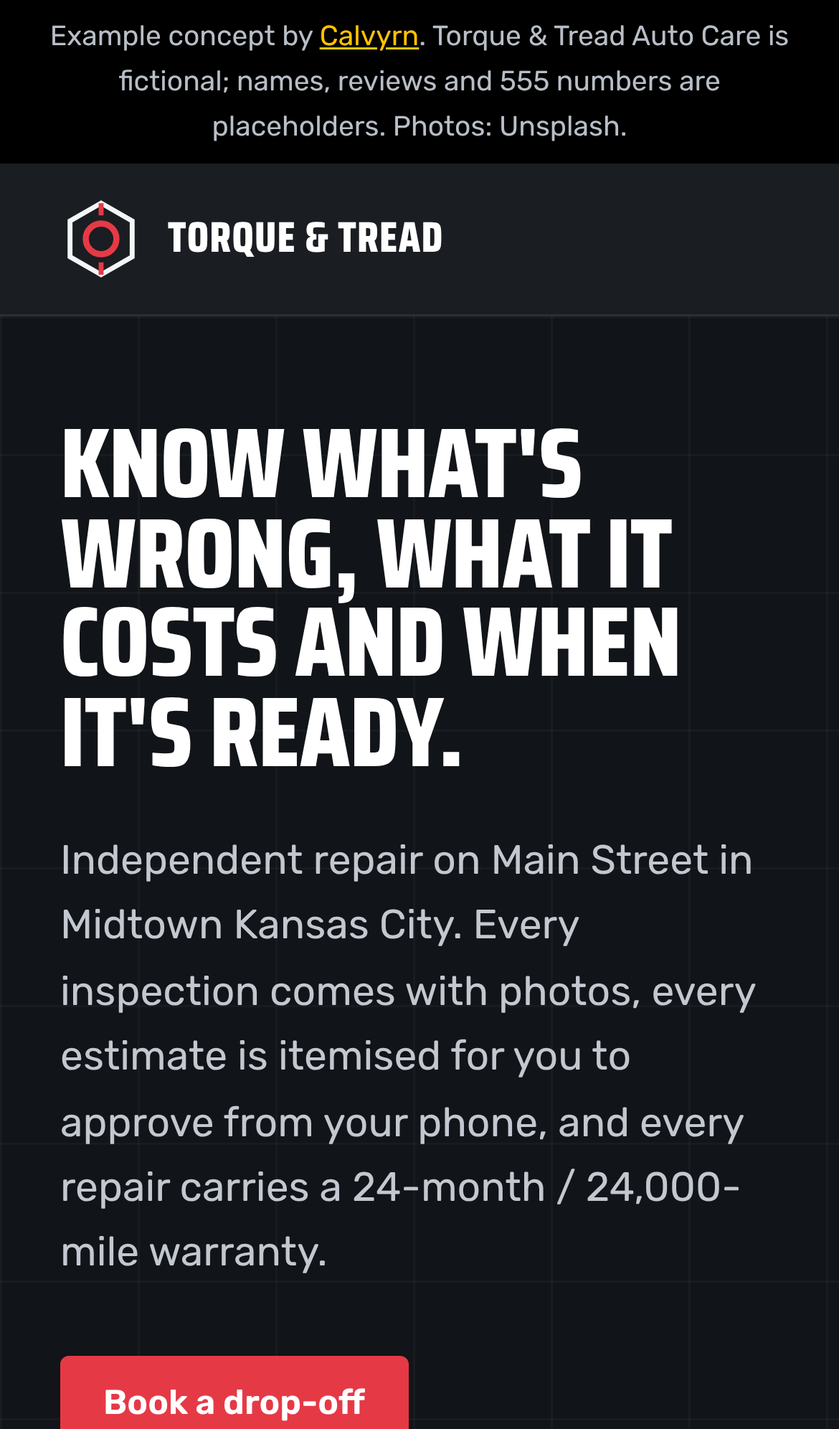
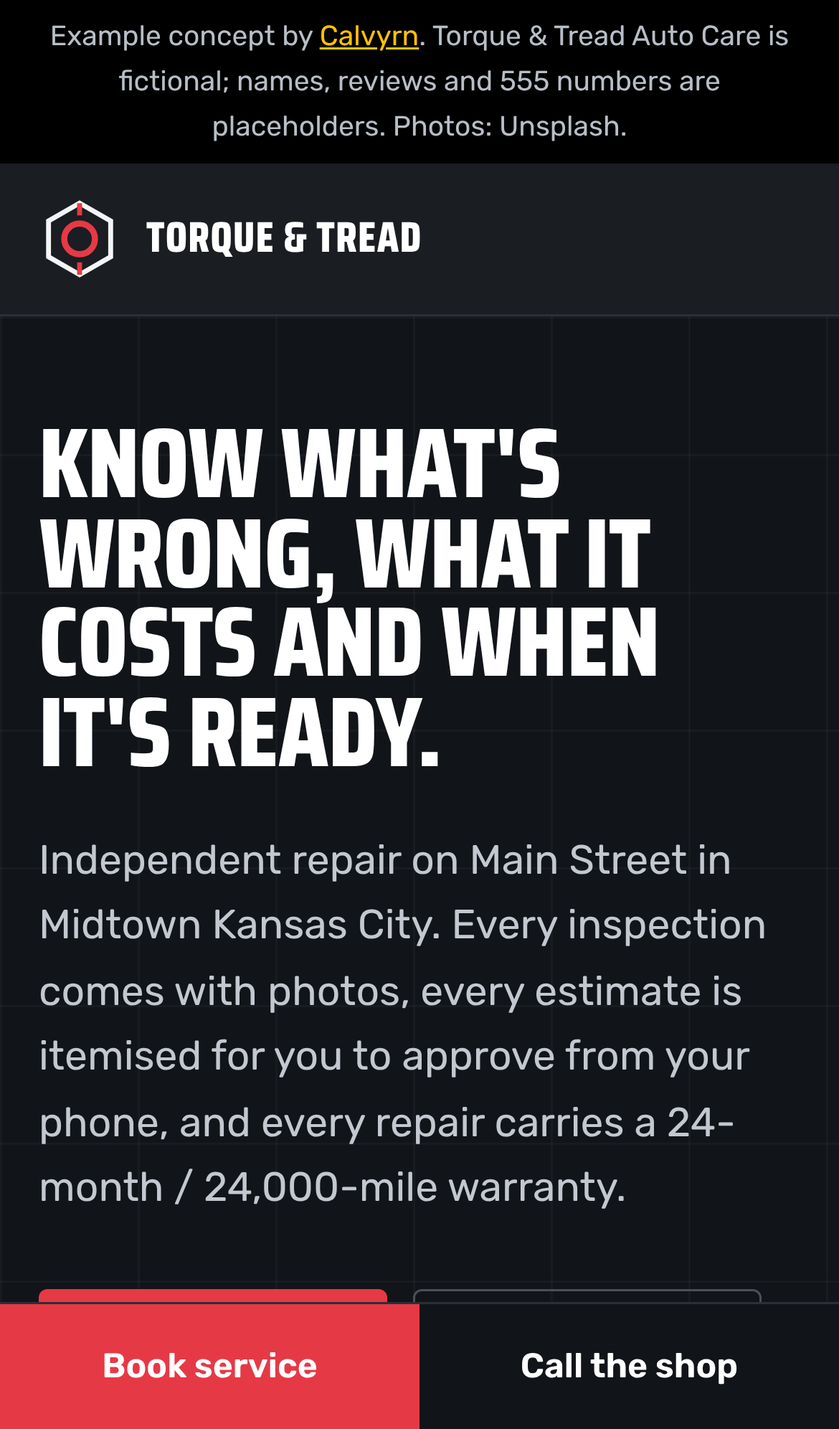
Portfolio: architecture 3D, solar 3D, auto repair, HVAC, plumber

diff --git a/sites/solar-installer-3d/index.html b/sites/solar-installer-3d/index.html
@@ -11,6 +11,7 @@
 <style>
 :root{--night:#0B2545;--sun:#F9C80E;--white:#F7F9FB;--deep:#13315C;--mist:#8DA9C4;--ink:#0B2545;--muted:#4A5F78;--line:#D9E2EC;--hh:70px;--d:"Unbounded",system-ui,sans-serif;--b:"Figtree",system-ui,sans-serif}
 *{box-sizing:border-box}
+[hidden]{display:none!important}
 html,body{margin:0}
 body{background:var(--white);color:var(--ink);font:400 17px/1.6 var(--b);-webkit-font-smoothing:antialiased}
 img{max-width:100%;display:block}
@@ -63,7 +64,8 @@ a{color:inherit}
 .cap{position:absolute;z-index:3;left:max(32px,calc((100vw - 1280px)/2 + 32px));bottom:7vh;max-width:430px;opacity:0}
 .cap small{display:inline-block;font:600 12.5px/1 var(--d);color:var(--night);background:var(--sun);padding:7px 11px;border-radius:999px;margin-bottom:14px}
 .cap h2{font:700 clamp(28px,3vw,44px)/1.05 var(--d);letter-spacing:-.03em;margin:0 0 10px}
-.cap p{margin:0;color:#C9D7E6;font-size:16.5px}
+.cap p{margin:0;color:#C9D7E6;font-size:16.5px;text-shadow:0 1px 14px rgba(11,37,69,.7)}
+.cap h2{text-shadow:0 2px 20px rgba(11,37,69,.5)}
 .fallback{display:none;position:absolute;inset:0;z-index:1;background:linear-gradient(rgba(11,37,69,.55),rgba(11,37,69,.85)),url(img/panels-golden.jpg) center/cover}
 .no-gl .fallback{display:block}.no-gl .cap,.no-gl .hint{display:none}
 .static .cap,.static .hint{display:none}
@@ -112,7 +114,7 @@ fieldset{border:0;margin:0;padding:0}
 .num b{display:block;font:700 clamp(40px,4.6vw,68px)/.95 var(--d);letter-spacing:-.045em;font-variant-numeric:tabular-nums}
 .num b sup{font-size:.4em;vertical-align:top;margin-left:4px;letter-spacing:0;position:relative;top:.2em}
 .num.wide{grid-column:1/-1}
-.num.wide b{color:var(--sun);font-size:clamp(40px,5.4vw,80px)}
+.num.wide b{color:var(--sun);font-size:clamp(32px,4.1vw,60px)}
 .num span{display:block;font-size:14px;color:#C9D7E6;margin-top:8px}
 .warn{margin:20px 0 0;background:rgba(249,200,14,.12);border:1px solid rgba(249,200,14,.4);color:#FBE7A0;border-radius:12px;padding:10px 14px;font-size:14px;position:relative}
 .fine{font-size:12.5px;line-height:1.55;color:#8DA9C4;margin:28px 0 0;border-top:1px solid rgba(141,169,196,.25);padding-top:18px;position:relative}
@@ -336,8 +338,8 @@ footer a{color:#D5E0EC;text-decoration:none}footer a:hover{color:var(--sun)}
     <p class="intro">Three ways to go solar. Prices are typical ranges for Valley homes before any incentives; your written quote is itemized line by line.</p>
     <div class="opts-grid">
       <article class="card dark"><img src="img/panels-close.jpg" alt="Close-up of black solar panels against a blue sky" loading="lazy"><div class="in"><h3>Solar panels</h3><p>The quickest payback. Your panels cover daytime use, and the surplus goes to the grid for bill credits.</p><ul><li>All-black 410 W panels</li><li>Panel-level monitoring on your phone</li><li>25-year workmanship warranty</li></ul><p class="price">$19,000–$25,000<small>typical 7–9 kW system, installed</small></p></div></article>
-      <article class="card"><img src="img/house-battery.jpg" alt="House with a row of solar panels on its tiled roof" loading="lazy"><div class="in"><h3>Panels + home battery</h3><p>Store the afternoon sun for the expensive evening hours and keep the fridge and Wi-Fi on in an outage.</p><p class="price">$31,000–$40,000<small>panels plus a 13–15 kWh battery</small></p></div></article>
-      <article class="card"><img src="img/cottages.jpg" alt="Two houses with dark solar panels covering their roofs" loading="lazy"><div class="in"><h3>Battery for existing solar</h3><p>Already have panels? We add a battery to most systems, including ones another company installed.</p><p class="price">$11,000–$16,000<small>battery, installed and connected</small></p></div></article>
+      <article class="card"><img src="img/house-battery.jpg" alt="House with a row of solar panels on its tiled roof" loading="lazy"><div class="in"><h3>Panels + home battery</h3><p>Store the afternoon sun for the expensive evening hours and keep the fridge and Wi-Fi on in an outage.</p><ul><li>Backup for chosen circuits</li><li>Charges from your panels first</li></ul><p class="price">$31,000–$40,000<small>panels plus a 13–15 kWh battery</small></p></div></article>
+      <article class="card"><img src="img/cottages.jpg" alt="Two houses with dark solar panels covering their roofs" loading="lazy"><div class="in"><h3>Battery for existing solar</h3><p>Already have panels? We add a battery to most systems, including ones another company installed.</p><ul><li>Compatibility check first</li><li>Usually installed in one day</li></ul><p class="price">$11,000–$16,000<small>battery, installed and connected</small></p></div></article>
     </div>
   </div>
 </section>
@@ -422,10 +424,10 @@ footer a{color:#D5E0EC;text-decoration:none}footer a:hover{color:var(--sun)}
     $('billOut').textContent='$'+b;
     const use=b/RATE*12, perKw=PER_KW*dir*sh;
     let kw=Math.min(16,Math.max(2.5,use*OFFSET/perKw));
-    const panels=Math.ceil(kw/PANEL); kw=panels*PANEL;
+    const panels=Math.min(39,Math.ceil(kw/PANEL)); kw=panels*PANEL;
     const prod=kw*perKw, off=Math.min(100,Math.round(prod/use*100));
     const lo=prod*RATE*.62, hi=Math.min(prod*RATE*.95,b*12*.97);
-    $('rKw').innerHTML=kw.toFixed(1)+'<sup>kW</sup>'; $('rPanels').textContent=panels+' panels, about '+Math.round(prod).toLocaleString('en-US')+' kWh a year';
+    $('rKw').innerHTML=kw.toFixed(1)+'<sup>kW</sup>'; $('rPanels').textContent=panels+' panels, about '+(Math.round(prod/50)*50).toLocaleString('en-US')+' kWh a year';
     $('rOff').innerHTML=off+'<sup>%</sup>';
     $('rSave').textContent=money(lo)+'–'+money(hi);
     $('rLife').textContent='Roughly '+money(Math.round(lo*25/1000)*1000)+' to '+money(Math.round(hi*25/1000)*1000)+' over 25 years at today\'s rates';
@@ -456,7 +458,7 @@ import { RoomEnvironment } from 'three/addons/environments/RoomEnvironment.js';
 
 const reduce = matchMedia('(prefers-reduced-motion: reduce)').matches;
 const story = document.getElementById('story'), stage = document.getElementById('stage'), holder = document.getElementById('gl');
-const heroCopy = document.getElementById('heroCopy'), caps = [document.getElementById('cap0'), document.getElementById('cap1')];
+const hud = document.getElementById('hud'), heroCopy = document.getElementById('heroCopy'), caps = [document.getElementById('cap0'), document.getElementById('cap1')];
 const elClock = document.getElementById('clock'), elKwh = document.getElementById('kwh'), elPc = document.getElementById('pc'), elBar = document.getElementById('pbar');
 const animated = !reduce && !!(window.gsap && window.ScrollTrigger);
 
@@ -603,6 +605,7 @@ function build() {
       m.position.set(u.t.x + u.o.x * k, u.t.y + u.o.y * k, u.t.z + u.o.z * k);
       m.rotation.set(u.rot[0] * k, u.rot[1] * k, u.rot[2] * k);
       const since = p - (u.s + .11); m.material.emissiveIntensity = since > 0 ? Math.max(0, .9 - since * 22) : 0;
+      m.visible = p > u.s - .03;
       if (e > .985) placed++;
     });
     const frac = placed / panels.length;
@@ -623,7 +626,7 @@ function build() {
     const c = camAt(p), fit = wide ? 1 : cl(.9 / cam.aspect, 1, 1.75);
     cam.position.set(Math.sin(c.th) * c.r * fit, c.h * (wide ? 1 : 1 + (fit - 1) * .35), Math.cos(c.th) * c.r * fit);
     cam.lookAt(0, c.ty, 0);
-    if (wide) cam.setViewOffset(W, H, -W * .19, H * .03, W, H); else cam.setViewOffset(W, H, 0, H * lerp(animated ? -.2 : -.12, -.02, sm(0, .07, p)), W, H);
+    if (wide) cam.setViewOffset(W, H, -W * .19, H * .03, W, H); else cam.setViewOffset(W, H, 0, H * lerp(animated ? -.3 : -.12, -.02, sm(0, .07, p)), W, H);
     // HUD
     const hour = 6 + 13.5 * a / Math.PI;
     elClock.textContent = fmtTime(hour);
@@ -631,12 +634,13 @@ function build() {
     elKwh.textContent = kwh.toFixed(1); elPc.textContent = `${placed} / ${panels.length}`; elBar.style.width = (frac * 100) + '%';
     if (animated) {
       const hc = sm(0, .05, p); heroCopy.style.opacity = 1 - hc; heroCopy.style.transform = `translateY(${-hc * 30}px)`; heroCopy.style.visibility = p > .06 ? 'hidden' : 'visible';
+      hud.style.opacity = wide ? 1 : sm(.03, .07, p);
       [[.07, .47], [.53, 1.2]].forEach(([s, e], i) => { const o = sm(s, s + .04, p) * (1 - sm(e - .04, e, p)); caps[i].style.opacity = o; caps[i].style.transform = `translateY(${(1 - o) * 18}px)`; });
     }
   }
   function draw(p, t) { apply(p, t); renderer.render(scene, cam); }
 
-  let cur = animated ? 0 : .55, target = cur;
+  let cur = animated ? 0 : .6, target = cur;
   new ResizeObserver(size).observe(stage);
   if (animated) {
     gsap.registerPlugin(ScrollTrigger);

diff --git a/index.html b/index.html
@@ -35,15 +35,29 @@ footer{padding:26px 0;font-size:14px;color:var(--muted)}
 <div class="wrap">
 <header><a class="brand" href="https://calvyrn.com">Calvyrn</a><a class="cta" href="https://calvyrn.com/contact.html">Get a free concept</a></header>
 <section class="intro"><h1>Websites and web apps that do a job for the business.</h1>
-<p>17 working concepts by industry: booking, ordering, client portals, quote calculators and interactive 3D. Open any of them on your phone and try it.</p></section>
+<p>22 working concepts by industry: booking, ordering, client portals, quote calculators and interactive 3D. Open any of them on your phone and try it.</p></section>
 <div class="filters" role="group" aria-label="Filter by tier"><button aria-pressed="true" data-f="all">All</button><button aria-pressed="false" data-f="High-end 3D">High-end 3D</button><button aria-pressed="false" data-f="Medium">Medium</button><button aria-pressed="false" data-f="Simple">Simple</button></div>
 <div class="grid" id="grid">
+<article class="card" data-tier="High-end 3D">
+  <a class="shot" href="sites/architecture-studio-3d/"><img src="sites/architecture-studio-3d/screenshots/desktop.png" alt="Architecture studio with a scroll-built 3D house: desktop screenshot" loading="lazy" width="1366" height="860"></a>
+  <div class="meta"><span class="ind">Architecture</span><span class="tier">High-end 3D</span></div>
+  <h2><a href="sites/architecture-studio-3d/">Architecture studio with a scroll-built 3D house</a></h2>
+  <p>A concrete-and-glass house assembles floor by floor, orbits and slides into golden-hour light as you scroll.</p>
+  <a class="code" href="https://github.com/calvyrn/portfolio/tree/main/sites/architecture-studio-3d">View the code</a>
+</article>
 <article class="card" data-tier="High-end 3D">
   <a class="shot" href="sites/roofing-3d/"><img src="sites/roofing-3d/screenshots/desktop.png" alt="Roofing company with a live 3D roof preview: desktop screenshot" loading="lazy" width="1366" height="860"></a>
   <div class="meta"><span class="ind">Home services</span><span class="tier">High-end 3D</span></div>
   <h2><a href="sites/roofing-3d/">Roofing company with a live 3D roof preview</a></h2>
   <p>Three.js scene with soft shadows, orbit controls, procedural textures for shingle, metal and tile, color swatches and a quote form. Auto-rotate is off for reduced motion.</p>
   <a class="code" href="https://github.com/calvyrn/portfolio/tree/main/sites/roofing-3d">View the code</a>
+</article>
+<article class="card" data-tier="High-end 3D">
+  <a class="shot" href="sites/solar-installer-3d/"><img src="sites/solar-installer-3d/screenshots/desktop.png" alt="Solar installer with 3D panels and savings estimator: desktop screenshot" loading="lazy" width="1366" height="860"></a>
+  <div class="meta"><span class="ind">Solar</span><span class="tier">High-end 3D</span></div>
+  <h2><a href="sites/solar-installer-3d/">Solar installer with 3D panels and savings estimator</a></h2>
+  <p>Panels fly onto a 3D house as the sun crosses the sky, plus a savings estimator that shows its assumptions.</p>
+  <a class="code" href="https://github.com/calvyrn/portfolio/tree/main/sites/solar-installer-3d">View the code</a>
 </article>
 <article class="card" data-tier="High-end 3D">
   <a class="shot" href="sites/travel-agency-3d/"><img src="sites/travel-agency-3d/screenshots/desktop.png" alt="Travel agency with a 3D flight globe: desktop screenshot" loading="lazy" width="1366" height="860"></a>
@@ -60,6 +74,13 @@ footer{padding:26px 0;font-size:14px;color:var(--muted)}
   <a class="code" href="https://github.com/calvyrn/portfolio/tree/main/sites/accounting-portal">View the code</a>
 </article>
 <article class="card" data-tier="Medium">
+  <a class="shot" href="sites/auto-repair/"><img src="sites/auto-repair/screenshots/desktop.png" alt="Auto shop with repair tracking: desktop screenshot" loading="lazy" width="1366" height="860"></a>
+  <div class="meta"><span class="ind">Auto repair</span><span class="tier">Medium</span></div>
+  <h2><a href="sites/auto-repair/">Auto shop with repair tracking</a></h2>
+  <p>Book a drop-off, then track the car by RO number and approve or decline each estimate line from your phone.</p>
+  <a class="code" href="https://github.com/calvyrn/portfolio/tree/main/sites/auto-repair">View the code</a>
+</article>
+<article class="card" data-tier="Medium">
   <a class="shot" href="sites/dental-booking/"><img src="sites/dental-booking/screenshots/desktop.png" alt="Dental practice with online booking: desktop screenshot" loading="lazy" width="1366" height="860"></a>
   <div class="meta"><span class="ind">Dental</span><span class="tier">Medium</span></div>
   <h2><a href="sites/dental-booking/">Dental practice with online booking</a></h2>
@@ -72,6 +93,13 @@ footer{padding:26px 0;font-size:14px;color:var(--muted)}
   <h2><a href="sites/gym-studio/">Strength gym with class booking</a></h2>
   <p>Filterable weekly schedule where reserving lowers spots left, full classes take a waitlist and bookings show in an app mockup.</p>
   <a class="code" href="https://github.com/calvyrn/portfolio/tree/main/sites/gym-studio">View the code</a>
+</article>
+<article class="card" data-tier="Medium">
+  <a class="shot" href="sites/hvac-emergency/"><img src="sites/hvac-emergency/screenshots/desktop.png" alt="24/7 HVAC with a troubleshooter: desktop screenshot" loading="lazy" width="1366" height="860"></a>
+  <div class="meta"><span class="ind">HVAC</span><span class="tier">Medium</span></div>
+  <h2><a href="sites/hvac-emergency/">24/7 HVAC with a troubleshooter</a></h2>
+  <p>Giant tap-to-call number and a What is wrong troubleshooter that walks through safe checks before booking an arrival window.</p>
+  <a class="code" href="https://github.com/calvyrn/portfolio/tree/main/sites/hvac-emergency">View the code</a>
 </article>
 <article class="card" data-tier="Medium">
   <a class="shot" href="sites/cleaning-quote/"><img src="sites/cleaning-quote/screenshots/desktop.png" alt="Home cleaning with instant price calculator: desktop screenshot" loading="lazy" width="1366" height="860"></a>
@@ -156,6 +184,13 @@ footer{padding:26px 0;font-size:14px;color:var(--muted)}
   <h2><a href="sites/wedding-photographer/">Wedding photography studio</a></h2>
   <p>Editorial wedding studio site with a full-screen hero, masonry gallery with keyboard lightbox, three collections and an inquiry form.</p>
   <a class="code" href="https://github.com/calvyrn/portfolio/tree/main/sites/wedding-photographer">View the code</a>
+</article>
+<article class="card" data-tier="Simple">
+  <a class="shot" href="sites/plumbing-simple/"><img src="sites/plumbing-simple/screenshots/desktop.png" alt="Family plumber, one fast page: desktop screenshot" loading="lazy" width="1366" height="860"></a>
+  <div class="meta"><span class="ind">Plumbing</span><span class="tier">Simple</span></div>
+  <h2><a href="sites/plumbing-simple/">Family plumber, one fast page</a></h2>
+  <p>Fast one-page plumber site with a big call button and a short quote form with an optional photo preview.</p>
+  <a class="code" href="https://github.com/calvyrn/portfolio/tree/main/sites/plumbing-simple">View the code</a>
 </article>
 </div></div>
 <section class="note"><div class="wrap"><p>Every business shown here is fictional and labelled as an example concept. Photos are from Unsplash. For your own business we start with a free homepage concept or a one-page plan, then a fixed written quote.</p></div></section>

diff --git a/sites/auto-repair/index.html b/sites/auto-repair/index.html
@@ -76,14 +76,15 @@ section.s{padding:96px 0}
 .svc article{border-right:1px solid var(--line);border-bottom:1px solid var(--line);background:#fff;display:flex;flex-direction:column}
 .svc .big{grid-column:span 2}.svc .wide{grid-column:span 3}
 .svc img{aspect-ratio:4/3;object-fit:cover;width:100%}
-.svc .in{padding:22px 24px 26px;display:flex;flex-direction:column;gap:8px;flex:1}
+.svc .in{padding:22px 24px 26px;display:flex;flex-direction:column;gap:8px;flex:1;min-width:0}
 .svc h3{font:700 28px/1 var(--disp);margin:0;text-transform:uppercase}
 .svc p{margin:0;color:var(--mut)}
-.svc .price{margin-top:auto;padding-top:12px;font:600 14px var(--mono);color:var(--ink);display:flex;justify-content:space-between;gap:12px;border-top:1px dashed var(--line)}.svc .price span:last-child{white-space:nowrap}
+.svc .price{margin-top:auto;padding-top:12px;font:600 14px var(--mono);color:var(--ink);display:flex;justify-content:space-between;gap:12px;border-top:1px dashed var(--line)}.svc .price span:last-child{text-align:right}
 .svc .wide{flex-direction:row}.svc .wide .ico{flex:none;width:120px;display:grid;place-items:center;background:var(--g);color:var(--y)}
 .svc .wide .ico svg{width:48px;height:48px}
+.svc>*{min-width:0}
 @media(max-width:960px){.svc{grid-template-columns:1fr 1fr}.svc .big{grid-column:span 1}.svc .wide{grid-column:span 2}}
-@media(max-width:620px){.svc{grid-template-columns:1fr}.svc .big,.svc .wide{grid-column:span 1}.svc .wide .ico{width:84px}}
+@media(max-width:620px){.svc{grid-template-columns:minmax(0,1fr)}.svc .big,.svc .wide{grid-column:span 1}.svc .wide .ico{width:84px}}
 /* booking */
 .bookwrap{display:grid;grid-template-columns:1.25fr .75fr;gap:0;border:1px solid var(--line);background:#fff}
 form.book{padding:34px 36px 36px}
@@ -187,7 +188,7 @@ ol.tl li.last.done::after{background:var(--red);border-color:var(--red)}
 .terr{color:#FF8A93;font-size:14px;min-height:1.3em;margin:8px 0 0}
 .trk>*{min-width:0}
 @media(max-width:960px){.trk{grid-template-columns:minmax(0,1fr)}.lookup{border-right:0;border-bottom:1px solid var(--dline)}}
-@media(max-width:700px){.panel{padding:24px 18px}ol.tl{grid-template-columns:1fr;gap:0}ol.tl li{padding:0 0 18px 30px}ol.tl li::before{top:0;bottom:0;left:6px;width:3px;height:auto;right:auto}ol.tl li::after{top:2px}ol.tl li.now::before{background:#2B2F36}.line{grid-template-columns:1fr auto}.line .ad{grid-column:span 2}}
+@media(max-width:700px){.rohead .eta{text-align:left}.panel{padding:24px 18px}ol.tl{grid-template-columns:1fr;gap:0}ol.tl li{padding:0 0 18px 30px}ol.tl li::before{top:0;bottom:0;left:6px;width:3px;height:auto;right:auto}ol.tl li::after{top:2px}ol.tl li.now::before{background:#2B2F36}.line{grid-template-columns:1fr auto}.line .ad{grid-column:span 2}}
 /* why */
 .why{display:grid;grid-template-columns:1fr 1fr;gap:0;background:#fff;border:1px solid var(--line)}
 .why .ph{position:relative;min-height:440px}.why .ph img{position:absolute;inset:0;width:100%;height:100%;object-fit:cover}

diff --git a/sites/architecture-studio-3d/index.html b/sites/architecture-studio-3d/index.html
@@ -11,6 +11,7 @@
 <style>
 :root{--paper:#EDEBE7;--ink:#1A1A1A;--stone:#8A8580;--sand:#C9C3BA;--rust:#B5532E;--line:#D3CEC6;--soft:#E4E1DC;--hh:68px;--d:"Syne",system-ui,sans-serif;--b:"Manrope",system-ui,sans-serif}
 *{box-sizing:border-box}
+[hidden]{display:none!important}
 html,body{margin:0}
 body{background:var(--paper);color:var(--ink);font:400 17px/1.65 var(--b);-webkit-font-smoothing:antialiased}
 img{max-width:100%;display:block}
@@ -63,7 +64,7 @@ a{color:inherit}
 .no-gl .hero-copy{background:rgba(237,235,231,.92);padding:28px}
 .static .words,.static .rail,.static .cue{display:none}
 .static .notes{position:static;width:auto;display:grid;grid-template-columns:repeat(3,1fr);gap:32px;padding:56px 32px;max-width:1320px;margin:0 auto}
-.static .note{position:static;opacity:1}
+.static .note{position:static;opacity:1;background:none;backdrop-filter:none;padding:16px 0 0}
 @media(max-width:820px){
   .hero-copy{left:20px;right:20px;top:4.5vh}
   .hero-copy h1{font-size:clamp(34px,9.4vw,50px)}
@@ -395,6 +396,7 @@ let renderer = null;
 try { renderer = new THREE.WebGLRenderer({ antialias: true, alpha: true, powerPreference: 'high-performance' }); } catch (e) { renderer = null; }
 if (!renderer) { document.body.classList.add('no-gl'); story.classList.add('static'); }
 else build();
+if (story.classList.contains('static')) story.appendChild(document.querySelector('.notes'));
 
 function build() {
   if (!animated) story.classList.add('static');

diff --git a/sites/hvac-emergency/index.html b/sites/hvac-emergency/index.html
@@ -214,7 +214,7 @@ footer .legal{border-top:1px solid #ffffff1f;margin-top:40px;padding-top:20px;di
 footer .legal a{color:#fff}
 @media(max-width:860px){footer .cols{grid-template-columns:1fr 1fr}}
 .callbar{display:none}
-@media(max-width:760px){.callbar{display:grid;grid-template-columns:1.4fr 1fr;gap:8px;position:fixed;left:10px;right:10px;bottom:10px;z-index:50}.callbar a{display:flex;align-items:center;justify-content:center;gap:8px;padding:15px 10px;border-radius:14px;font:700 17px var(--body);text-decoration:none;box-shadow:0 10px 30px -10px #0A2342aa}.callbar .c{background:var(--hot);color:#2A1300}.callbar .b{background:var(--navy);color:#fff}.callbar svg{width:20px;height:20px}body{padding-bottom:80px}}
+@media(max-width:760px){.callbar{display:grid;grid-template-columns:1.4fr 1fr;gap:8px;position:fixed;left:10px;right:10px;bottom:10px;z-index:50}.callbar a{display:flex;align-items:center;justify-content:center;gap:8px;padding:15px 10px;border-radius:14px;font:700 17px var(--body);text-decoration:none;box-shadow:0 10px 30px -10px #0A2342aa}.callbar .c{background:var(--hot);color:#2A1300}.callbar .b{background:var(--teal);color:#fff}.callbar svg{width:20px;height:20px}body{padding-bottom:80px}}
 </style>
 </head>
 <body>

diff --git a/sites/plumbing-simple/index.html b/sites/plumbing-simple/index.html
@@ -32,6 +32,7 @@ nav.main a{text-decoration:none;color:var(--blue)}nav.main a:hover{text-decorati
 .btn.ol{background:#fff;color:var(--blue);box-shadow:inset 0 0 0 2px var(--blue)}
 @media(max-width:960px){nav.main{display:none}.tel{margin-left:auto}}
 @media(max-width:560px){header.top .btn{display:none}.brand b{font-size:19px}.tel{font-size:16px}}
+@media(max-width:400px){.brand b{font-size:17px}.brand svg{width:34px;height:34px}.tel{font-size:15px}}
 /* hero */
 .hero{padding:56px 0 72px;background:#fff}
 .hero .wrap{display:grid;grid-template-columns:1fr 1fr;gap:56px;align-items:center}

diff --git a/README.md b/README.md
@@ -6,11 +6,15 @@ Website, web app and AI concepts for small businesses, organised by industry. Ev
 
 | Project | Industry | Tier | Demo |
 |---|---|---|---|
+| [Architecture studio with a scroll-built 3D house](sites/architecture-studio-3d/) | Architecture | High-end 3D | [Live demo](https://calvyrn.github.io/portfolio/sites/architecture-studio-3d/) |
 | [Roofing company with a live 3D roof preview](sites/roofing-3d/) | Home services | High-end 3D | [Live demo](https://calvyrn.github.io/portfolio/sites/roofing-3d/) |
+| [Solar installer with 3D panels and savings estimator](sites/solar-installer-3d/) | Solar | High-end 3D | [Live demo](https://calvyrn.github.io/portfolio/sites/solar-installer-3d/) |
 | [Travel agency with a 3D flight globe](sites/travel-agency-3d/) | Travel | High-end 3D | [Live demo](https://calvyrn.github.io/portfolio/sites/travel-agency-3d/) |
 | [CPA firm with a client portal](sites/accounting-portal/) | Accounting | Medium | [Live demo](https://calvyrn.github.io/portfolio/sites/accounting-portal/) |
+| [Auto shop with repair tracking](sites/auto-repair/) | Auto repair | Medium | [Live demo](https://calvyrn.github.io/portfolio/sites/auto-repair/) |
 | [Dental practice with online booking](sites/dental-booking/) | Dental | Medium | [Live demo](https://calvyrn.github.io/portfolio/sites/dental-booking/) |
 | [Strength gym with class booking](sites/gym-studio/) | Fitness | Medium | [Live demo](https://calvyrn.github.io/portfolio/sites/gym-studio/) |
+| [24/7 HVAC with a troubleshooter](sites/hvac-emergency/) | HVAC | Medium | [Live demo](https://calvyrn.github.io/portfolio/sites/hvac-emergency/) |
 | [Home cleaning with instant price calculator](sites/cleaning-quote/) | Home cleaning | Medium | [Live demo](https://calvyrn.github.io/portfolio/sites/cleaning-quote/) |
 | [Boutique hotel with direct booking](sites/boutique-hotel/) | Hospitality | Medium | [Live demo](https://calvyrn.github.io/portfolio/sites/boutique-hotel/) |
 | [Law firm with 24/7 guided intake](sites/law-intake/) | Legal | Medium | [Live demo](https://calvyrn.github.io/portfolio/sites/law-intake/) |
@@ -23,6 +27,7 @@ Website, web app and AI concepts for small businesses, organised by industry. Ev
 | [Independent insurance agency](sites/insurance-agency/) | Insurance | Simple | [Live demo](https://calvyrn.github.io/portfolio/sites/insurance-agency/) |
 | [Landscaper with project gallery and estimate form](sites/landscaping-simple/) | Landscaping | Simple | [Live demo](https://calvyrn.github.io/portfolio/sites/landscaping-simple/) |
 | [Wedding photography studio](sites/wedding-photographer/) | Photography | Simple | [Live demo](https://calvyrn.github.io/portfolio/sites/wedding-photographer/) |
+| [Family plumber, one fast page](sites/plumbing-simple/) | Plumbing | Simple | [Live demo](https://calvyrn.github.io/portfolio/sites/plumbing-simple/) |
 
 **Tiers**
 - **Simple:** fast one- or two-page sites with click-to-call, a clear offer and a short form.

diff --git a/sites/solar-installer-3d/README.md b/sites/solar-installer-3d/README.md
@@ -1,0 +1,20 @@
+# Solar installer with a 3D install story and savings estimator
+
+**Tier:** High-end 3D · **Industry:** Solar / home services
+
+A procedural Three.js house sits on a floating desert island. As you scroll a pinned hero, solar panels fly in and tile onto the roof one row at a time. The sun crosses the sky, changing the light direction and colour, and a counter shows illustrative "estimated kWh this hour" based on the sun's height. Below that is a working savings estimator (monthly bill, roof direction, shade). It returns a system size, panel count, bill coverage and a yearly savings range, shows its formula assumptions, and is clearly labelled as an estimate, not a quote. A validated email form follows, then how it works, panel and battery options, a financing FAQ, placeholder reviews and the service area with a map.
+
+**Live demo:** https://calvyrn.github.io/portfolio/sites/solar-installer-3d/
+
+| Desktop | Phone |
+|---|---|
+| ![Desktop](screenshots/desktop.png) | ![Phone](screenshots/mobile.png) |
+
+**Why it matters:** Homeowners want a number before they talk to a salesperson. An honest estimate with its assumptions in plain view builds trust and brings in better leads.
+
+**Design:** Unbounded + Figtree; night navy, sun yellow, white, deep blue and mist. Dark full-bleed hero into light sections, with big data numbers. Three.js (ACES tone mapping, soft shadows, procedural island, panels and sky), GSAP ScrollTrigger and Lenis. Single HTML file, no framework. Respects reduced motion and has a fallback if WebGL is missing.
+
+The business, reviews, prices and phone number (555 number) are fictional placeholders. Photos are free-licence images from Unsplash.
+
+---
+Want this for your business? **info@calvyrn.com** · [calvyrn.com/contact.html](https://calvyrn.com/contact.html)

diff --git a/sites/architecture-studio-3d/README.md b/sites/architecture-studio-3d/README.md
@@ -1,0 +1,20 @@
+# Architecture studio with a 3D scroll story
+
+**Tier:** High-end 3D · **Industry:** Architecture
+
+Award-style scroll story for a residential architecture studio. A procedural Three.js concrete-and-glass house starts as a floating exploded model. As you scroll a pinned section, it assembles floor by floor, the camera orbits to the back, and the light moves from midday to golden hour, with the chapter titles "Site", "Form" and "Light" in sync. Below the story are selected projects, a four-step process, services, placeholder quotes, an FAQ and a validated "Start a project" form (project type, budget, timeline) with a map.
+
+**Live demo:** https://calvyrn.github.io/portfolio/sites/architecture-studio-3d/
+
+| Desktop | Phone |
+|---|---|
+| ![Desktop](screenshots/desktop.png) | ![Phone](screenshots/mobile.png) |
+
+**Why it matters:** An architect sells a way of thinking about space and light, and a scroll story that builds a house shows that better than a gallery of stock renders.
+
+**Design:** Syne + Manrope; paper, ink, stone and sand, with a little architectural rust. Editorial asymmetric grid. Three.js (ACES tone mapping, soft shadows, procedural board-formed concrete), GSAP ScrollTrigger and Lenis. Single HTML file, no framework. Respects reduced motion and has a fallback if WebGL is missing.
+
+The business, projects, reviews and phone number (555 number) are fictional placeholders. Photos are free-licence images from Unsplash.
+
+---
+Want this for your business? **info@calvyrn.com** · [calvyrn.com/contact.html](https://calvyrn.com/contact.html)

diff --git a/sites/auto-repair/README.md b/sites/auto-repair/README.md
@@ -1,0 +1,20 @@
+# Auto repair shop with booking and repair tracking
+
+**Tier:** Medium · **Industry:** Auto repair
+
+Garage-modern site for an independent shop: drivers book a drop-off (vehicle, services, day and time, loaner or wait) with a live work-order preview, then track their car by RO number through a status timeline, approve or decline each line of the estimate from their phone, and switch on text updates.
+
+**Live demo:** https://calvyrn.github.io/portfolio/sites/auto-repair/
+
+| Desktop | Phone |
+|---|---|
+| ![Desktop](screenshots/desktop.png) | ![Phone](screenshots/mobile.png) |
+
+**Why it matters:** "What's wrong, what will it cost and when is it ready?" are the three calls every shop answers all day. Letting customers see status and approve repairs line by line cuts those calls and builds trust before the invoice.
+
+**Design:** Saira Condensed + Rubik, monospace RO numbers; graphite, steel, signal red and caution yellow for status. Dashboard-style grid, single HTML file, no framework, keyboard accessible, responsive down to 360 px.
+
+The business, people, reviews and phone numbers (555 numbers) are fictional placeholders. Photos are free-licence images from Unsplash.
+
+---
+Want this for your business? **info@calvyrn.com** · [calvyrn.com/contact.html](https://calvyrn.com/contact.html)

diff --git a/sites/hvac-emergency/README.md b/sites/hvac-emergency/README.md
@@ -1,0 +1,20 @@
+# 24/7 HVAC company with a "What's wrong?" troubleshooter
+
+**Tier:** Medium · **Industry:** HVAC / home services
+
+Call-first site for an emergency heating and air company: a giant tap-to-call number in the hero, and a troubleshooter that walks homeowners through 2–3 safe checks per symptom before booking a technician in an arrival window, with after-hours fees shown up front and a tech-on-the-way confirmation.
+
+**Live demo:** https://calvyrn.github.io/portfolio/sites/hvac-emergency/
+
+| Desktop | Phone |
+|---|---|
+| ![Desktop](screenshots/desktop.png) | ![Phone](screenshots/mobile.png) |
+
+**Why it matters:** People with a broken AC want a phone number and an arrival time, fast. Safe self-checks solve the simple cases (and earn goodwill), while real problems become booked jobs instead of missed calls.
+
+**Design:** Archivo (expanded) + Source Sans 3; navy, teal and a hot orange kept only for emergency actions. Icon row, sticky mobile call bar, single HTML file, no framework, keyboard accessible, responsive down to 360 px.
+
+The business, people, reviews and phone numbers (555 numbers) are fictional placeholders. Photos are free-licence images from Unsplash.
+
+---
+Want this for your business? **info@calvyrn.com** · [calvyrn.com/contact.html](https://calvyrn.com/contact.html)

diff --git a/sites/plumbing-simple/README.md b/sites/plumbing-simple/README.md
@@ -1,0 +1,20 @@
+# Family plumber with a quick quote form
+
+**Tier:** Simple · **Industry:** Plumbing
+
+Fast one-page site for a local plumber: a big tap-to-call button, six services with starting prices, why us, service area and hours, reviews, and a short quote form (name, phone, problem, optional photo preview that stays on the device) with validation and a confirmation.
+
+**Live demo:** https://calvyrn.github.io/portfolio/sites/plumbing-simple/
+
+| Desktop | Phone |
+|---|---|
+| ![Desktop](screenshots/desktop.png) | ![Phone](screenshots/mobile.png) |
+
+**Why it matters:** Most plumbing customers are on a phone with a problem right now. A light page that loads fast and puts the call button and a two-minute quote form first turns that visit into a job.
+
+**Design:** Bitter (slab) + Open Sans; pipe blue, brass and white. Simple stacked sections, large tap targets, under 350 KB of images, single HTML file, no framework, keyboard accessible, responsive down to 360 px.
+
+The business, people, reviews and phone numbers (555 numbers) are fictional placeholders. Photos are free-licence images from Unsplash.
+
+---
+Want this for your business? **info@calvyrn.com** · [calvyrn.com/contact.html](https://calvyrn.com/contact.html)
